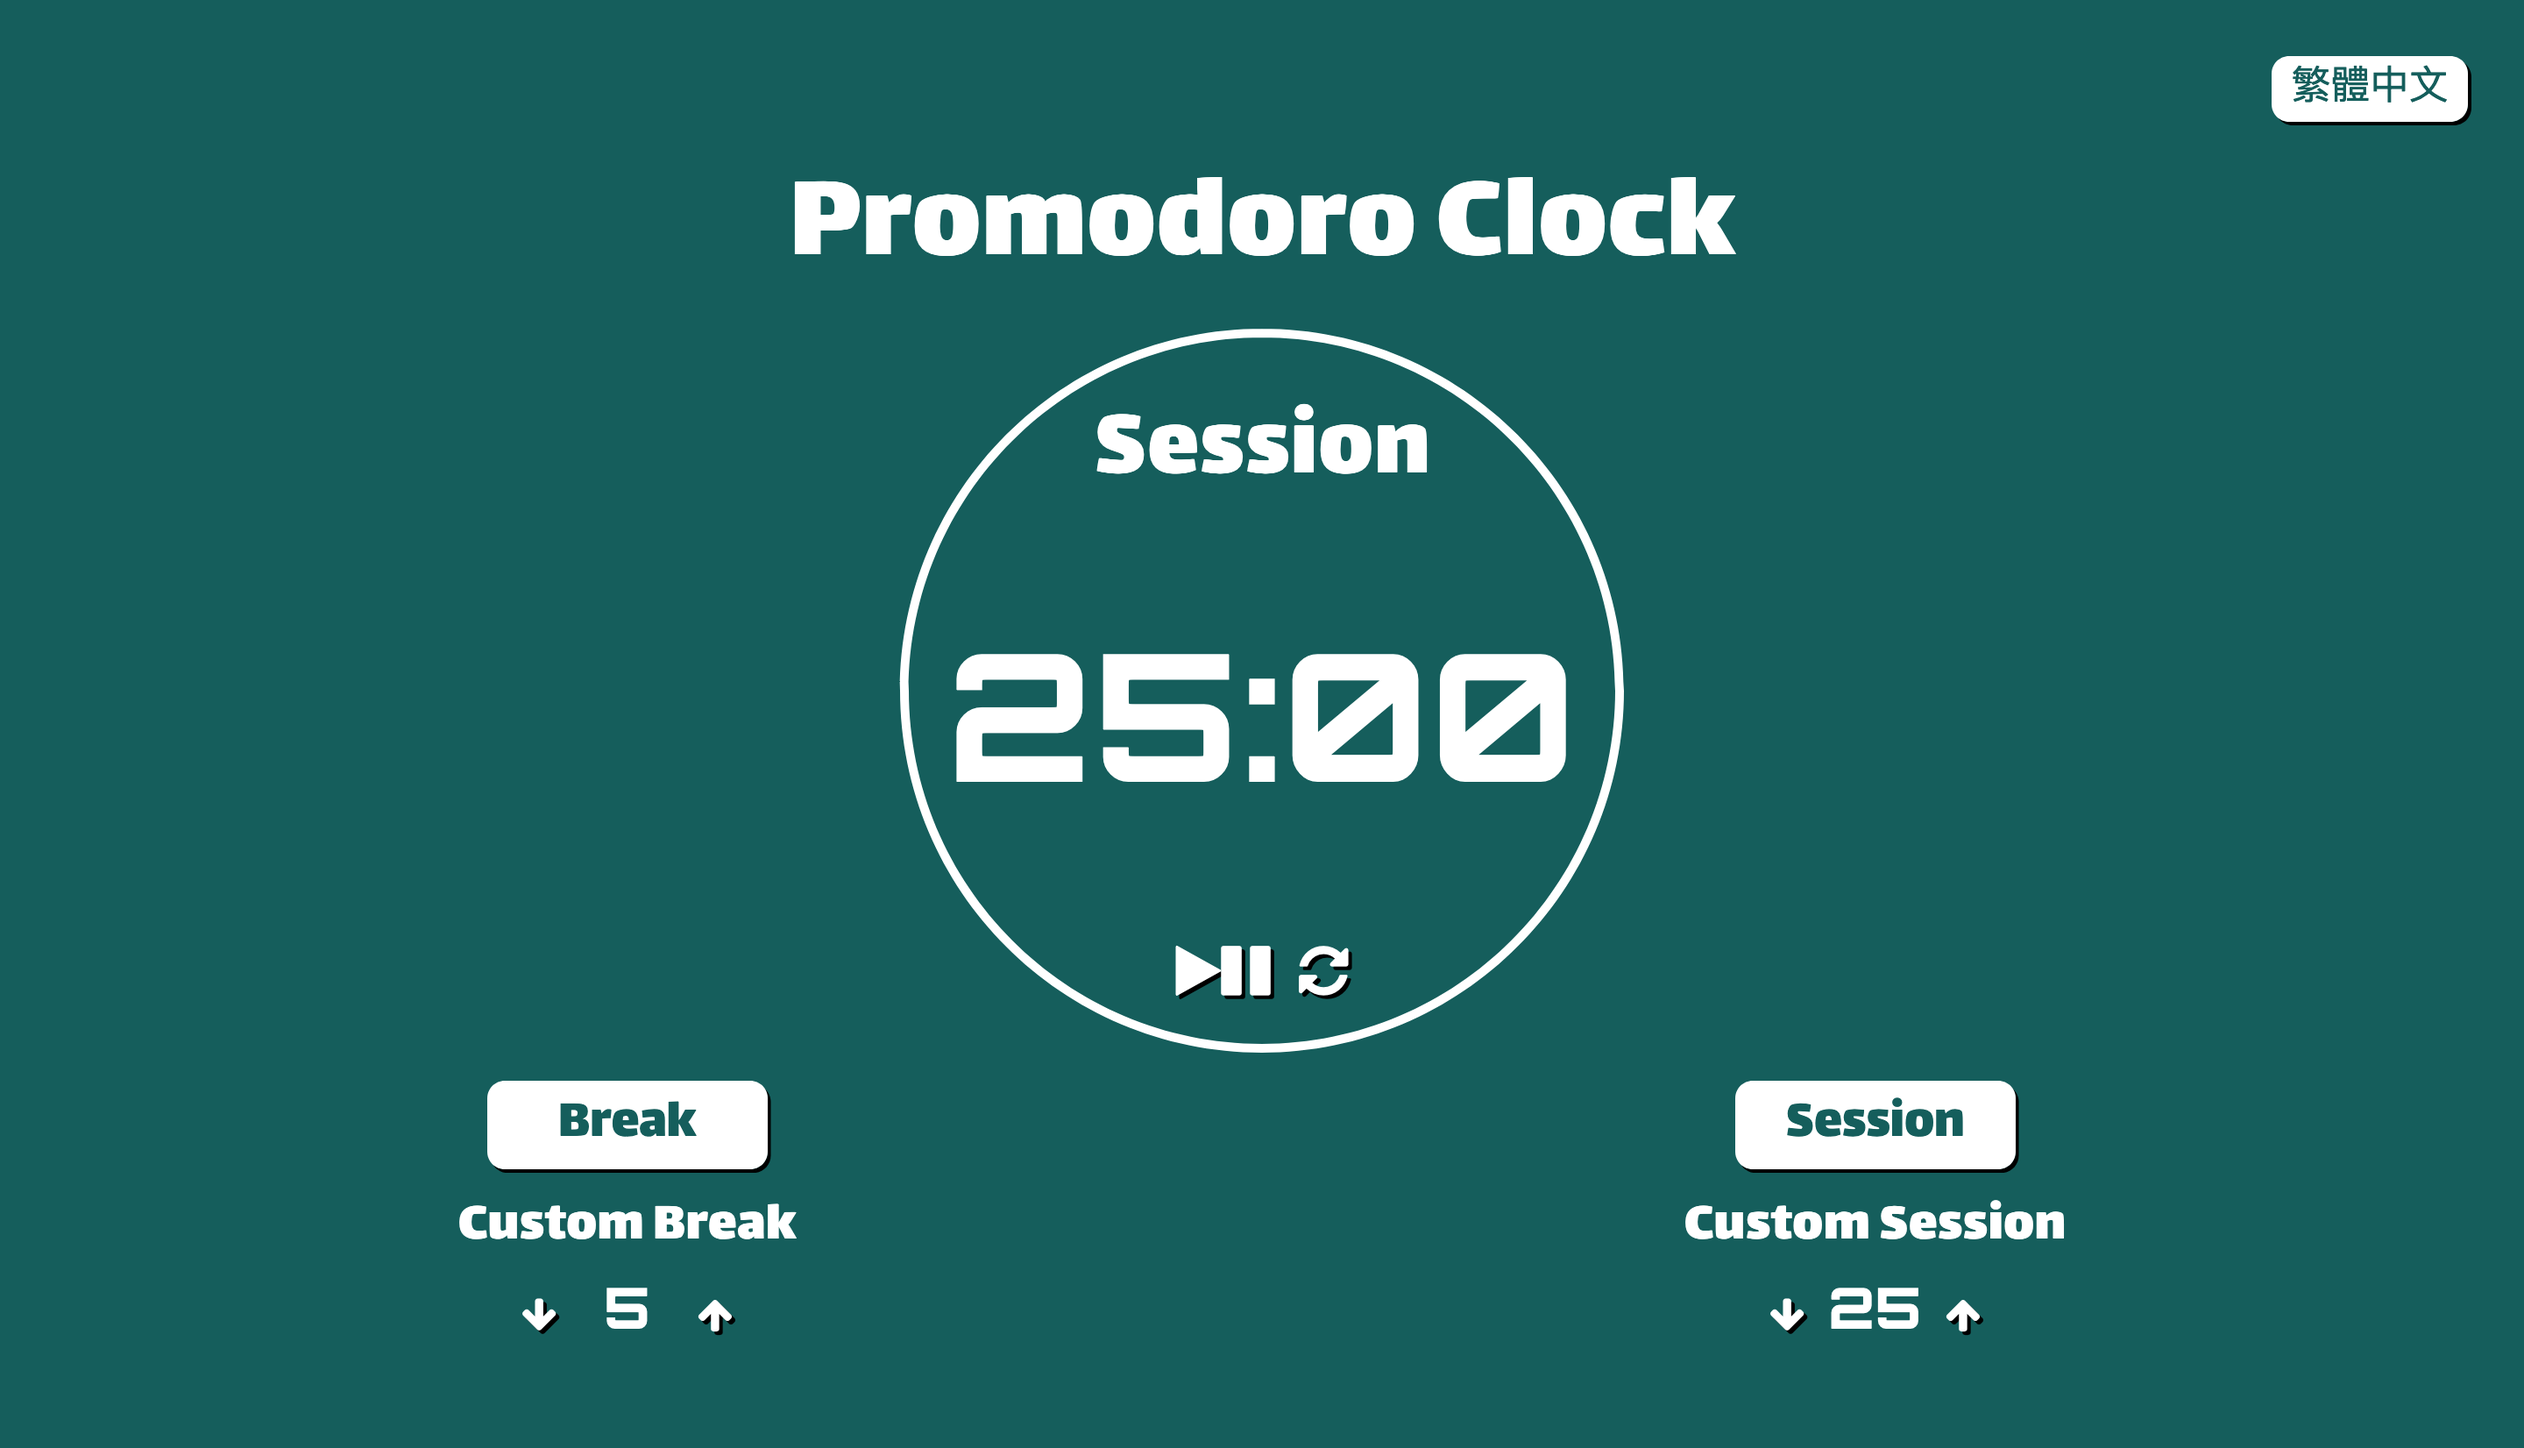
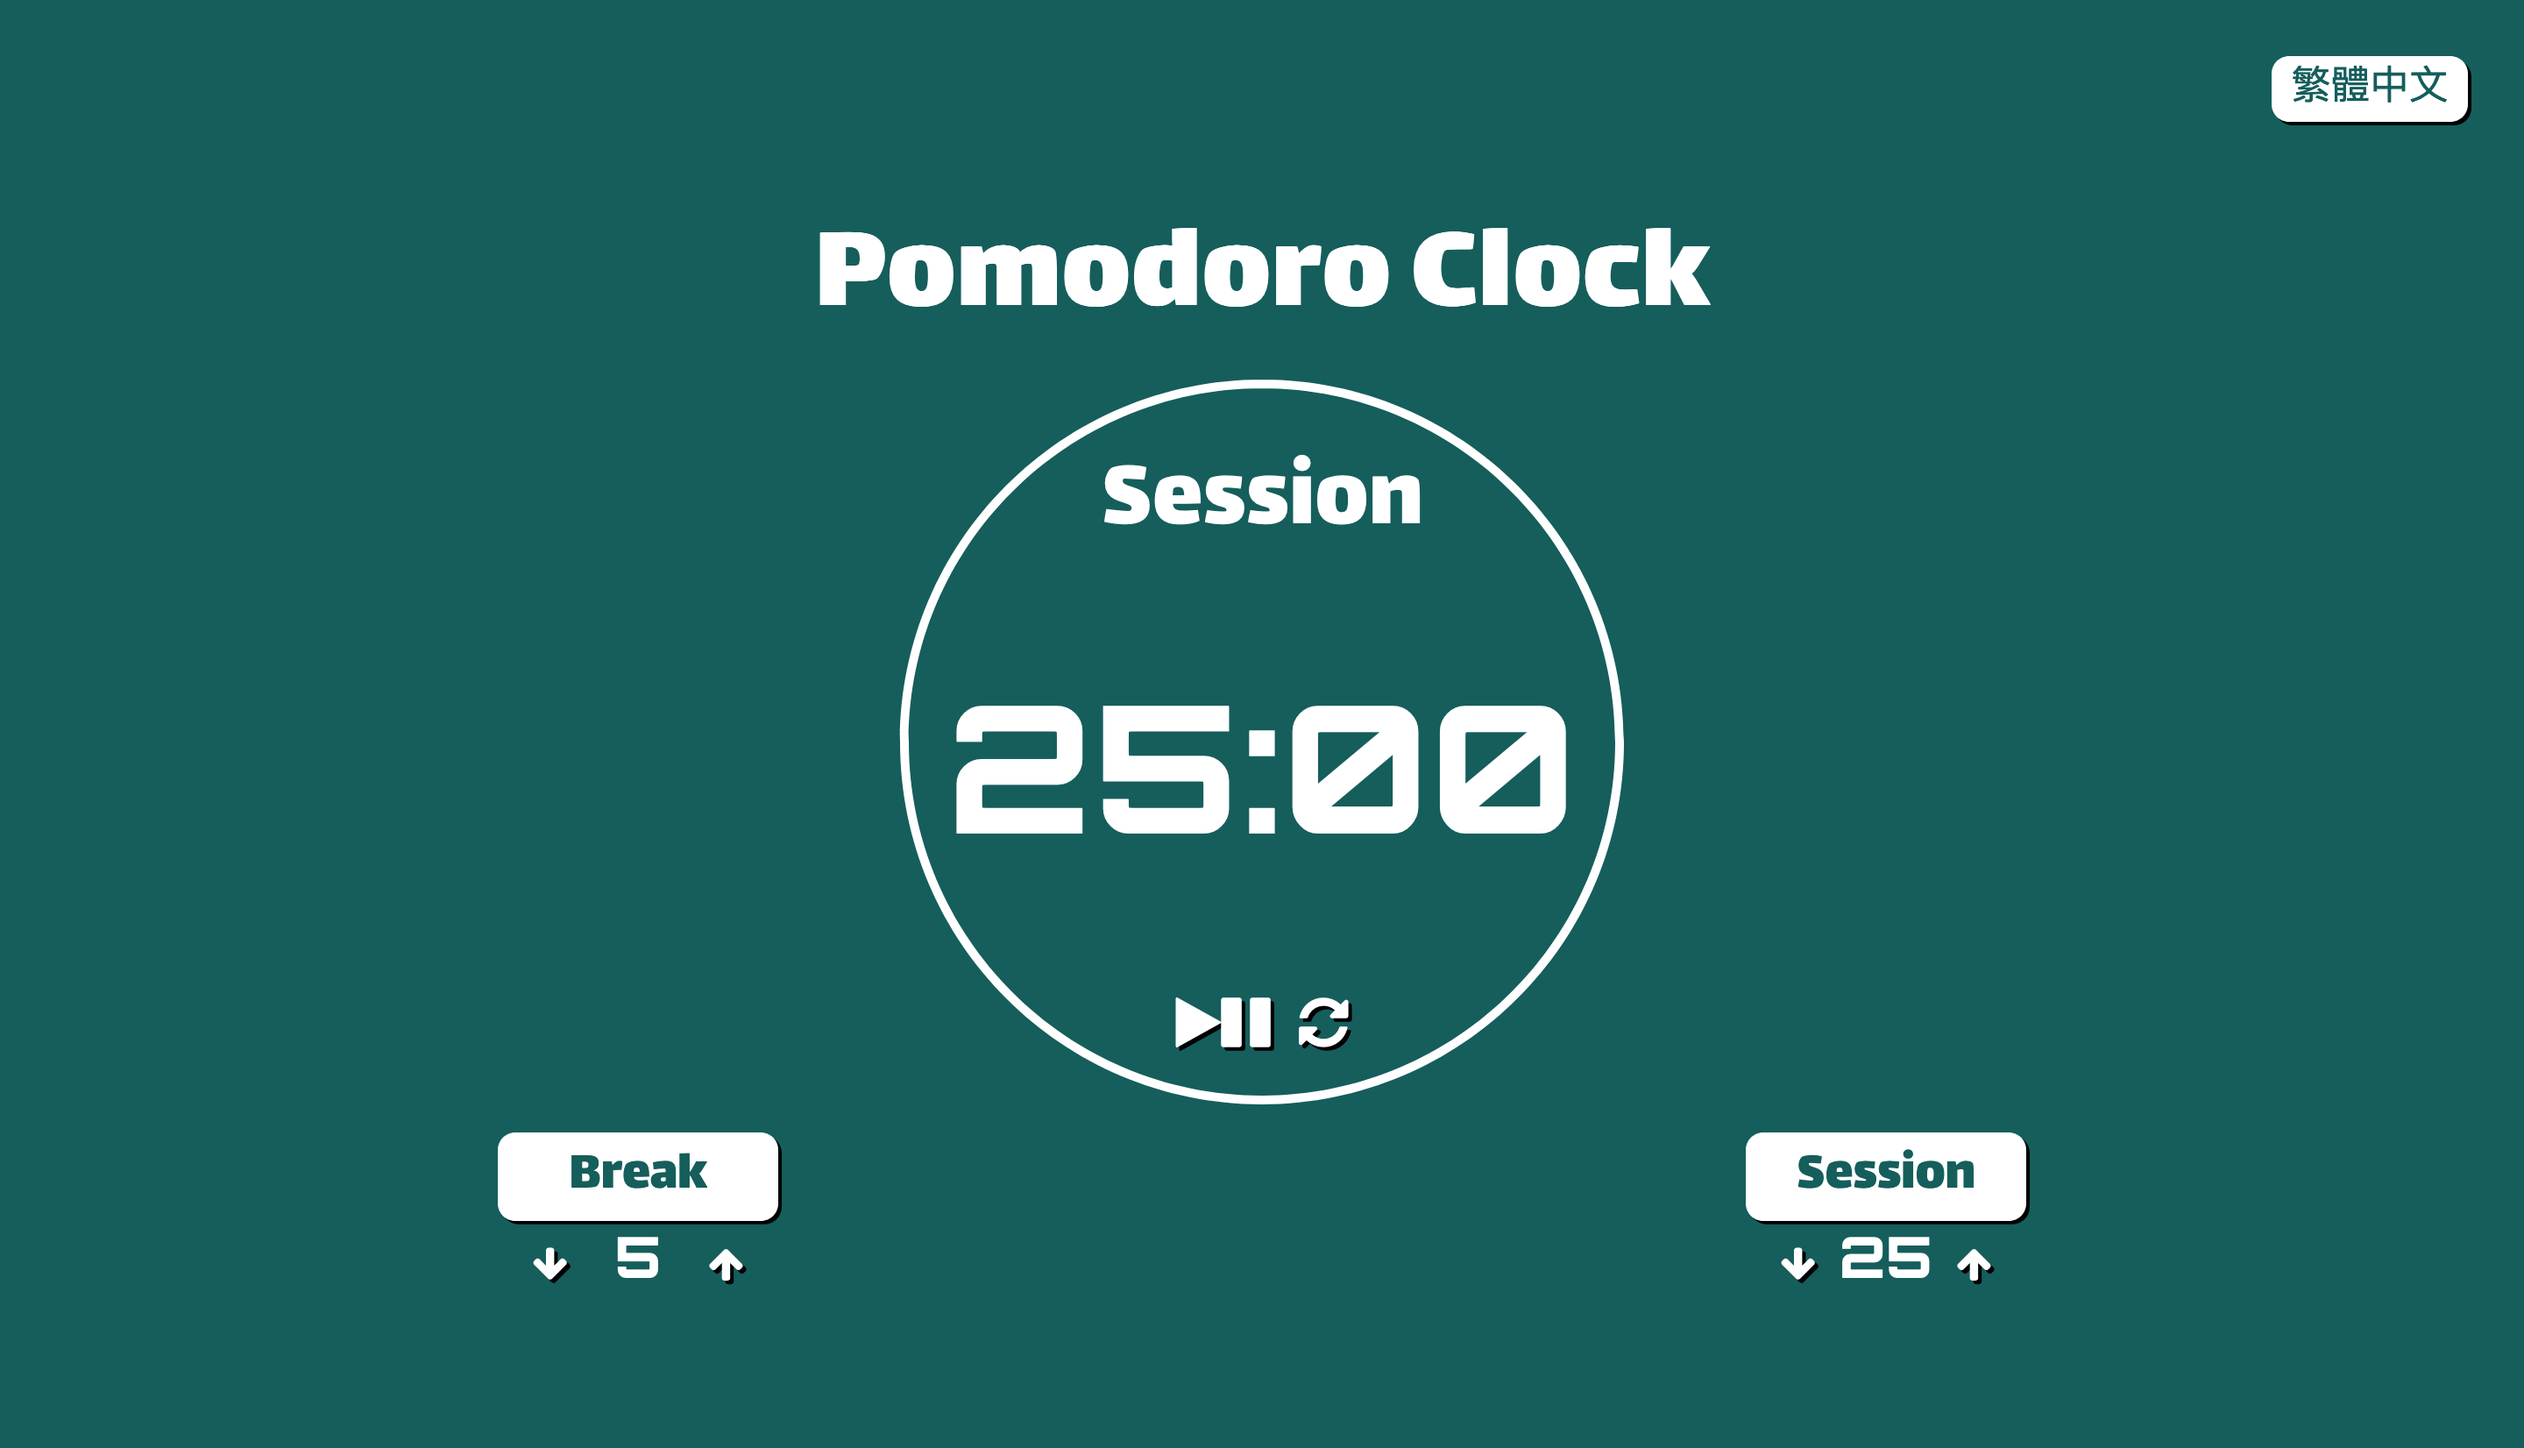
adjust initial css

Changed region(s): [[0.3125, 0.1235, 0.6875, 0.7718], [0.6562, 0.7409, 0.8125, 0.9262], [0.1562, 0.7409, 0.3125, 0.9262]]

diff --git a/src/components/TodoApp.js b/src/components/TodoApp.js
@@ -1,7 +1,12 @@
 import React from 'react';
 import "./TodoApp.css";
+import Todo from "./TodoApp-sub/Todo";
 
 export default function TodoApp(props) {
+
+    const taskList = props.tasks.map(task => (
+        <Todo id={task.id} name={task.name} completed={task.completed} key={task.id} />
+    ));
     return (
         <div className="todoapp stack-large">
             <h1>Todos</h1>
@@ -47,54 +52,8 @@ export default function TodoApp(props) {
                 className="todo-list stack-large stack-exception"
                 aria-labelledby="list-heading"
             >
-                <li className="todo stack-small">
-                    <div className="c-cb">
-                        <input id="todo-0" type="checkbox" defaultChecked={true} />
-                        <label className="todo-label" htmlFor="todo-0">
-                            Eat
-              </label>
-                    </div>
-                    <div className="btn-group">
-                        <button type="button" className="btn">
-                            Edit <span className="visually-hidden">Eat</span>
-                        </button>
-                        <button type="button" className="btn btn__danger">
-                            Delete <span className="visually-hidden">Eat</span>
-                        </button>
-                    </div>
-                </li>
-                <li className="todo stack-small">
-                    <div className="c-cb">
-                        <input id="todo-1" type="checkbox" />
-                        <label className="todo-label" htmlFor="todo-1">
-                            Sleep
-              </label>
-                    </div>
-                    <div className="btn-group">
-                        <button type="button" className="btn">
-                            Edit <span className="visually-hidden">Sleep</span>
-                        </button>
-                        <button type="button" className="btn btn__danger">
-                            Delete <span className="visually-hidden">Sleep</span>
-                        </button>
-                    </div>
-                </li>
-                <li className="todo stack-small">
-                    <div className="c-cb">
-                        <input id="todo-2" type="checkbox" />
-                        <label className="todo-label" htmlFor="todo-2">
-                            Repeat
-              </label>
-                    </div>
-                    <div className="btn-group">
-                        <button type="button" className="btn">
-                            Edit <span className="visually-hidden">Repeat</span>
-                        </button>
-                        <button type="button" className="btn btn__danger">
-                            Delete <span className="visually-hidden">Repeat</span>
-                        </button>
-                    </div>
-                </li>
+                {taskList}
+
             </ul>
         </div>
     );

diff --git a/src/components/TodoApp.css b/src/components/TodoApp.css
@@ -1,22 +1,144 @@
 .todoapp {
-  max-width: 68rem;
+  max-width: 45rem;
   margin: 3rem auto;
   background: #e76c6c;
   /* margin: 2rem 0 4rem; */
-  padding: 1rem;
+  padding: 4rem;
   position: relative;
   border-radius: 10px;
   /* box-shadow: 0 2px 4px 0 rgba(0, 0, 0, 0.2), 0 2.5rem 5rem 0 rgba(0, 0, 0, 0.1); */
 }
 
+.todoapp > * {
+  max-width: 50rem;
+  margin-left: auto;
+  margin-right: auto;
+}
+
+.label__lg {
+  font-size: 2rem;
+}
+
 .input__lg {
   background-color: transparent;
-  padding: 2rem;
+  padding: 1rem;
   border: 2px solid white;
   display: inline-block;
-  width: 80%;
+  width: 100%;
   box-sizing: border-box;
   border-radius: 10px;
+  font-size: 2rem;
+  color: white;
+  caret-color: white;
+}
+
+.btn {
+  font-size: 1.8rem;
+}
+
+.btn__lg {
+  margin: 1rem auto;
+  width: 100%;
+}
+
+.btn-group {
+  display: flex;
+  justify-content: space-between;
+}
+
+.btn-group > * {
+  width: 20rem;
+  margin: 0 2rem;
+  min-width: 6rem;
+}
+
+.btn.toggle-btn[aria-pressed="true"] {
+  color: #e76c6c;
+  text-decoration: underline;
+  background-color: white;
+  border-color: white;
+}
+
+.btn.toggle-btn {
+  color: #cacaca;
+  background-color: initial;
+  box-shadow: initial;
+  border: 2px solid #cacaca;
+}
+
+#list-heading {
+  font-size: 2.5rem;
+}
+
+/* CHECKBOX STYLES */
+.c-cb {
+  margin-top: 3.6rem;
+  margin-left: 2.5rem;
+  margin-bottom: 0.5rem;
+  text-align: initial;
+  box-sizing: border-box;
+  font-weight: 400;
+  font-size: 2rem;
+  line-height: 1.25;
+  display: block;
+  position: relative;
+  min-height: 44px;
+  padding-left: 40px;
+  clear: left;
+}
+.c-cb > label::before,
+.c-cb > input[type="checkbox"] {
+  box-sizing: border-box;
+  top: -1px;
+  left: -1px;
+  width: 40px;
+  height: 40px;
+}
+.c-cb > input[type="checkbox"] {
+  -webkit-font-smoothing: antialiased;
+  cursor: pointer;
+  position: absolute;
+  z-index: 1;
+  margin: 0;
+  opacity: 0;
+}
+.c-cb > label {
+  font-size: inherit;
+  font-family: inherit;
+  line-height: inherit;
+  display: inline-block;
+  margin-bottom: 0;
+  padding: 8px 15px 5px;
+  cursor: pointer;
+  touch-action: manipulation;
+}
+.c-cb > label::before {
+  content: "";
+  position: absolute;
+  border: 2px solid currentColor;
+  background: transparent;
+}
+.c-cb > input[type="checkbox"]:focus + label::before {
+  border-width: 4px;
+  outline: 3px dashed #228bec;
+}
+.c-cb > label::after {
+  box-sizing: content-box;
+  content: "";
+  position: absolute;
+  top: 11px;
+  left: 9px;
+  width: 18px;
+  height: 7px;
+  transform: rotate(-45deg);
+  border: solid;
+  border-width: 0 0 5px 5px;
+  border-top-color: transparent;
+  opacity: 0;
+  background: transparent;
+}
+.c-cb > input[type="checkbox"]:checked + label::after {
+  opacity: 1;
 }
 
 .visually-hidden {

diff --git a/src/index.css b/src/index.css
@@ -16,7 +16,7 @@ h1 {
 }
 
 *:focus {
-  outline: 3px dashed #ff5566;
+  outline: 3px dashed white;
   outline-offset: 0;
 }
 
@@ -31,32 +31,42 @@ p {
 }
 
 button {
-  color: #ffffff;
-  background-color: transparent;
+  background-color: white;
+  box-shadow: 2px 2px black;
+  text-shadow: none;
   border: none;
   outline: none;
-  text-shadow: 2px 2px black;
   font-family: "Lalezar", cursive;
   border-radius: 10px;
 }
 
 button:active {
-  color: #cacaca;
   text-shadow: none;
   box-shadow: none;
   transform: translateY(4px);
 }
 
 button:hover {
+  background-color: #cacaca;
+  cursor: pointer;
+}
+
+.btn-level {
+  color: white;
+  display: inline-block;
+  text-shadow: 2px 2px black;
+  background-color: transparent;
+  box-shadow: none;
+}
+
+.btn-level:hover {
   color: #cacaca;
+  background-color: transparent;
 }
 
 #language-btn {
   width: 7rem;
-  background-color: white;
   color: #155e5c;
-  font-family: "Lalezar", cursive;
-  border-radius: 10px;
   font-size: 1.4rem;
   position: absolute;
   right: 2rem;
@@ -64,8 +74,6 @@ button:hover {
   margin-top: 0;
   margin-bottom: 0;
   padding: 0 0;
-  box-shadow: 2px 2px black;
-  text-shadow: none;
 }
 
 #language-btn:hover {
@@ -89,10 +97,6 @@ button:hover {
   margin-bottom: 1em;
 }
 
-.btn-level {
-  display: inline-block;
-}
-
 #timer-label {
   font-family: "Lalezar", cursive;
   font-size: 4vmax;
@@ -112,6 +116,7 @@ button:hover {
   margin-bottom: 0;
   font-size: 2rem;
   font-weight: 900;
+  pointer-events: none;
 }
 
 #break-label,
@@ -126,22 +131,8 @@ button:hover {
 #default-session {
   width: 10rem;
   font-size: 2rem;
-  background-color: white;
   color: #155e5c;
   padding: 0 0;
-  box-shadow: 2px 2px black;
-  text-shadow: none;
-}
-
-#default-break:hover,
-#default-session:hover {
-  background-color: #cacaca;
-}
-
-#default-break:active,
-#default-session:active {
-  background-color: #cacaca;
-  box-shadow: none;
 }
 
 @media (max-width: 1200px) {

diff --git a/src/index.js b/src/index.js
@@ -5,11 +5,17 @@ import './index.css';
 import Pomodoro from './components/Pomodoro';
 import TodoApp from './components/TodoApp';
 
+const DATA = [
+    { id: "todo-0", name: "Eat", completed: true },
+    { id: "todo-1", name: "Sleep", completed: false },
+    { id: "todo-2", name: "Repeat", completed: false }
+];
+
 function App() {
     return (
         <div>
             <Pomodoro />
-            <TodoApp />
+            <TodoApp tasks={DATA} />
         </div>
 
     )
